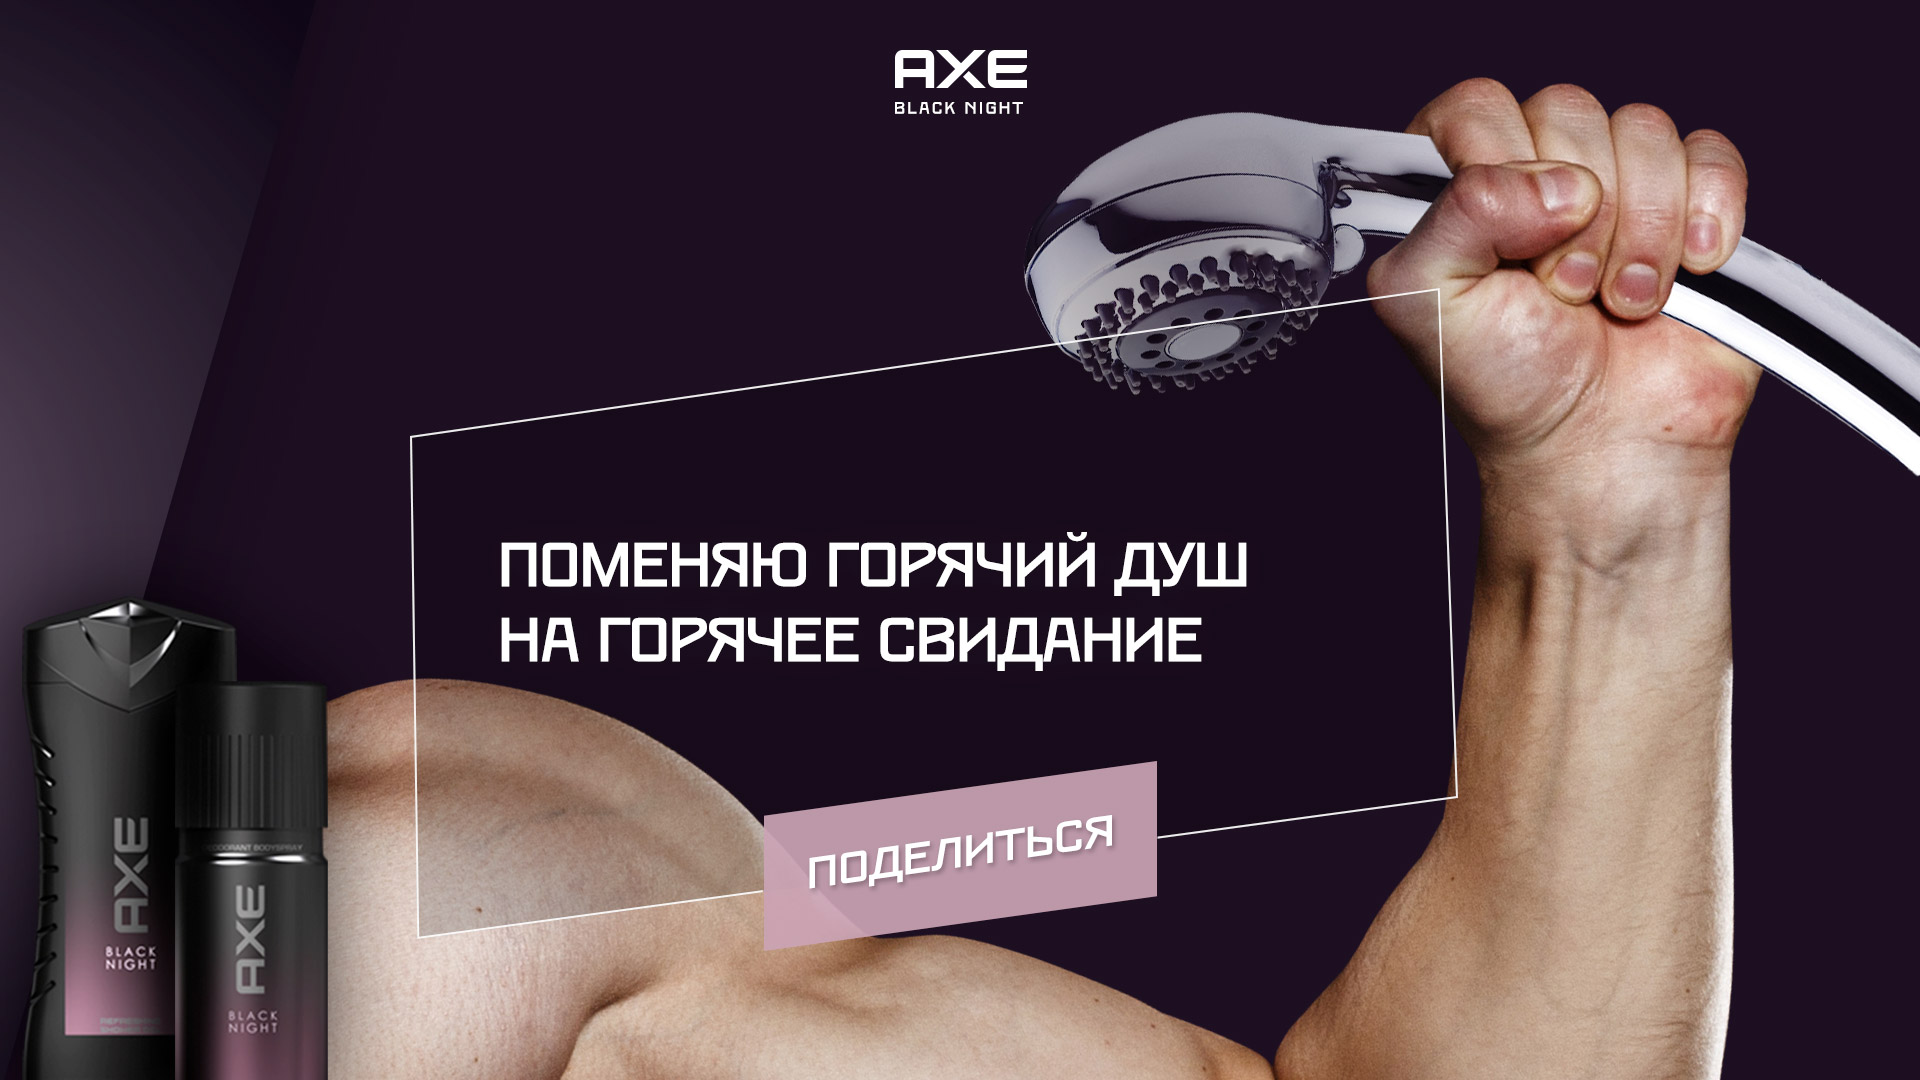
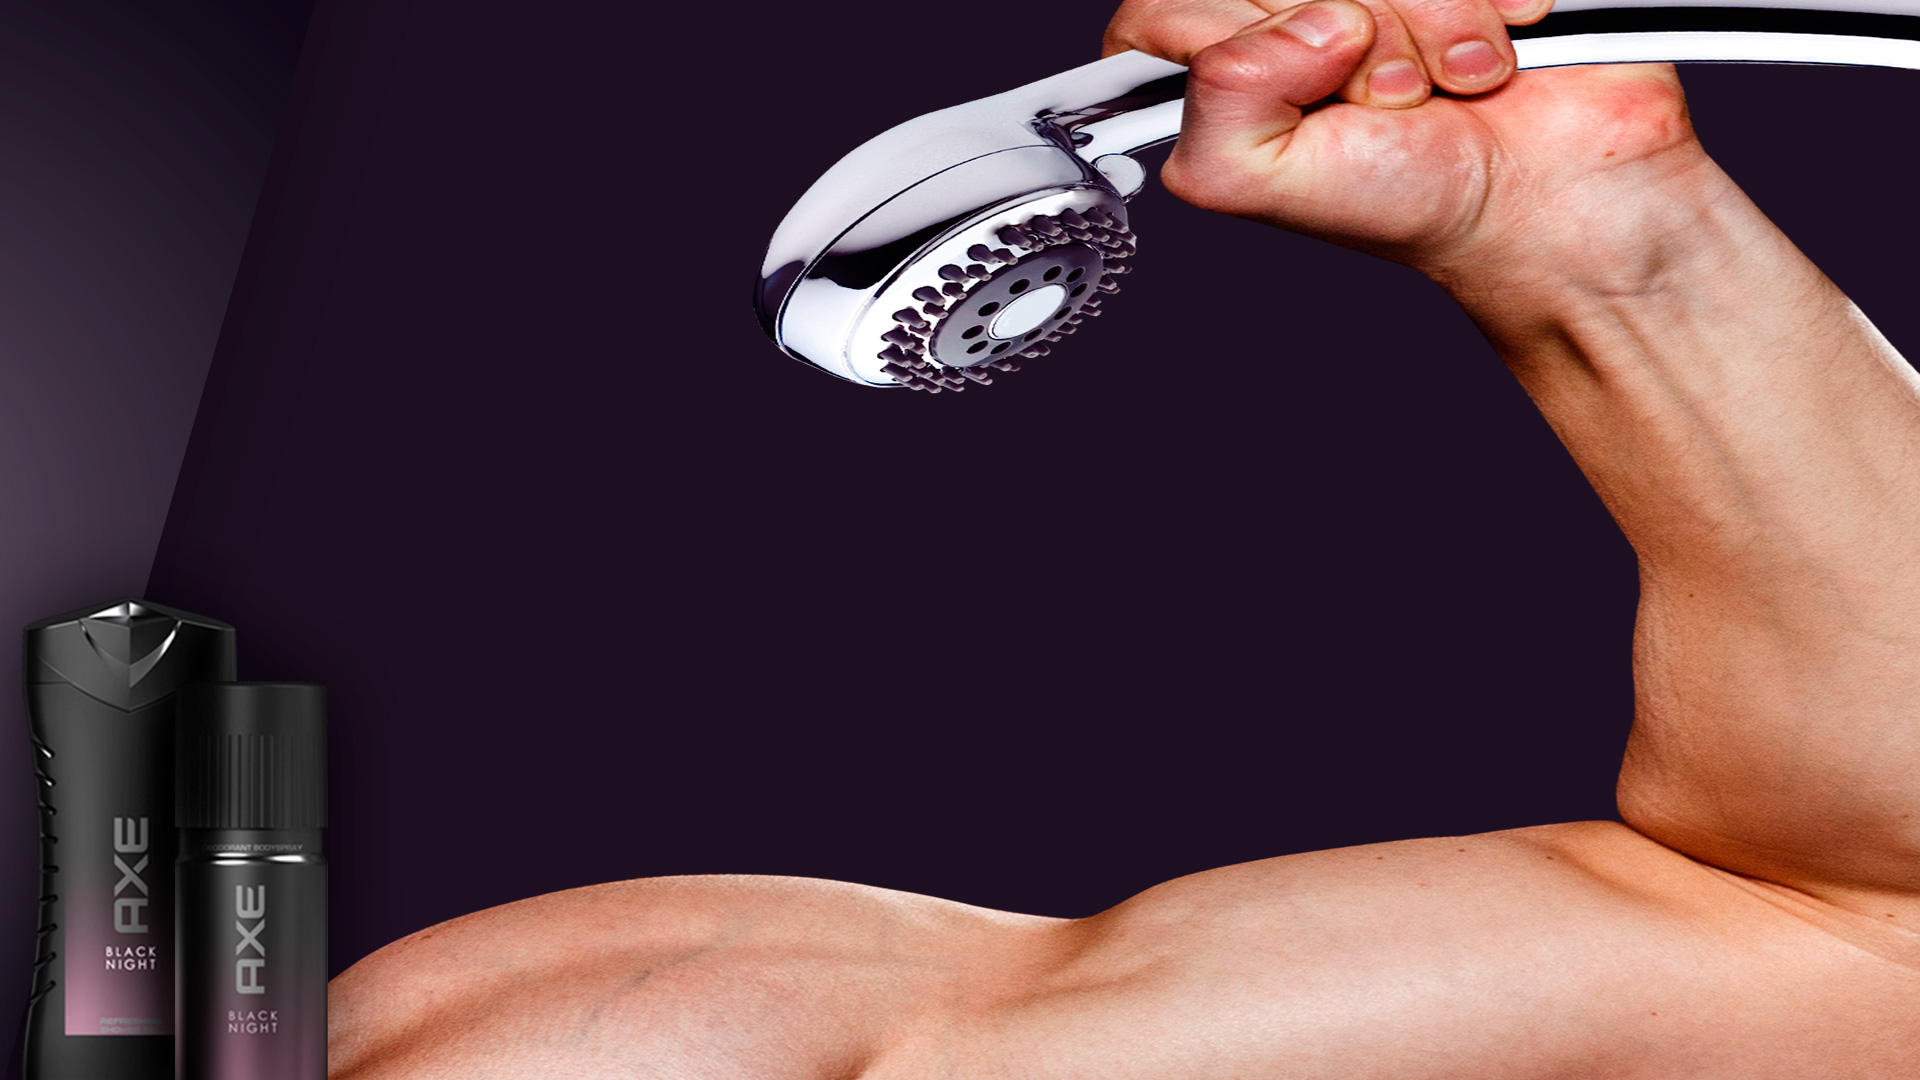
girl version finished

diff --git a/assets/style.css b/assets/style.css
@@ -132,8 +132,8 @@ label {
     left: 12px;
     top: 40px;
     z-index: 100;
-    width: 10vw;
-    height: 5vw;
+    width: 4em;
+    height: 2em;
     background-repeat: no-repeat;
     background-size: contain;
 }
@@ -256,14 +256,14 @@ label {
     text-align: center;
 }
 .share-post__text {
-    margin-bottom: 0.5vw;
-    font-size: 1.2vw;
+    margin-bottom: 0.5em;
+    font-size: 1.2em;
     color: #ffffff;
 }
 .share-post__link {
     display: inline-block;
-    width: 8vw;
-    height: 8vw;
+    width: 4em;
+    height: 4em;
     background-image: url(sharings.png);
     background-repeat: no-repeat;
     background-size: cover;
@@ -381,8 +381,8 @@ label {
 }
 
 .b_valign .share-post__link {
-    width: 4vw;
-    height: 4vw;
+    width: 4em;
+    height: 4em;
 }
 
 .b_valign-cont {
@@ -514,7 +514,7 @@ label {
     }
 }
 
-@media screen and (max-width: 736px) {
+@media screen and (max-width: 769px) {
     .button-set .button {
         margin: 0 2%;
     }
@@ -524,6 +524,35 @@ label {
         padding: 1.5em 1.5em .5em;
 
         font-size: 2.5em
+    }
+}
+
+@media screen and (max-width: 769px) and (orientation: portrait) {
+    .b_valign-cont {
+        padding-top: 4em;
+        vertical-align: top;
+    }
+
+    .heading {
+        line-height: 1.2em;
+    }
+
+    .heading br {
+        display: none;
+    }
+
+    .share-post__text {
+        font-size: 2em;
+    }
+
+    .b_valign .share-post__link {
+        width: 8em;
+        height: 8em;
+    }
+
+    .select-circle {
+        width: 4em;
+        height: 4em;
     }
 }
 
@@ -544,6 +573,12 @@ label {
         font-size: 10px;
     }
 }
+
+/*@media screen and (max-width: 520px) and (orientation: landscape) {
+    .button {
+        font-size: 2.5em;
+    }
+}*/
 
 @media screen and (max-width: 520px) and (max-height: 400px) {
     .top {
@@ -586,12 +621,18 @@ label {
 }
 .screen--for_m_water_share .screen__bg {
     background-image: url(man_water_share.jpg);
+    background-size: cover;
+    background-position: center;
 }
 .screen--for_m_partner .screen__bg {
     background-image: url(man_partner.jpg);
+    background-size: cover;
+    background-position: center;
 }
 .screen--for_m_share .screen__bg {
     background-image: url(man_partner_share.jpg);
+    background-size: cover;
+    background-position: center;
 }
 .screen--for_girl .screen__bg {
     background-image: url(girl_start.jpg);

diff --git a/index.php b/index.php
@@ -98,7 +98,7 @@
                     <div class="content">
                         <div class="b_valign">
                             <div class="b_valign-cont">
-                                <h2 class="heading">О чем ты мечтаешь<br>в душе?</h2>
+                                <h2 class="heading">О чем ты мечтаешь <br>в душе?</h2>
                                 <div class="button-set">
                                     <label for="for_m_water" class="button">О горячей<br>воде</label>
                                     <label for="for_m_partner" class="button">О горячей<br>девушке</label>
@@ -128,7 +128,7 @@
                     <div class="content">
                         <div class="b_valign">
                             <div class="b_valign-cont">
-                                <h2 class="heading is-bordered">Ищу девушку с теплом<br>в душе</h2>
+                                <h2 class="heading is-bordered">Ищу девушку с теплом <br>в душе</h2>
                                 <label for="for_m_water_share" class="button">Поделиться</label>
                             </div>
                         </div>
@@ -157,7 +157,7 @@
                         <div class="b_valign">
                             <div class="b_valign-cont">
                                 <h2 class="heading is-bordered">
-                                    Поделюсь горячей водой<br>
+                                    Поделюсь горячей водой <br>
                                     с горячей девушкой
                                 </h2>
                                 <label for="for_m_share" class="button">Поделиться</label>
@@ -178,7 +178,7 @@
                             <div class="b_valign-cont">
                                 <h2 class="heading is-bordered is-hashtagged">
                                     <div class="unrotate">
-                                        Поделюсь горячей водой<br>
+                                        Поделюсь горячей водой <br>
                                         с горячей девушкой
                                         <span class="hashtag">#СТЕПЛОМВДУШЕ</span>
                                     </div>
@@ -207,7 +207,7 @@
                             <div class="b_valign-cont">
                                 <h2 class="heading is-bordered is-hashtagged">
                                     <div class="unrotate">
-                                        Ищу девушку<br>
+                                        Ищу девушку <br>
                                         с теплом в душе
                                         <span class="hashtag">#СТЕПЛОМВДУШЕ</span>
                                     </div>
@@ -229,28 +229,46 @@
                 <div class="product"></div>
                 <div class="screen__bg">
                     <label for="for_man" class="select-gender select-gender--girl"></label>
-                    <label for="for_g_water" class="select-option select-option--water"></label>
-                    <label for="for_g_partner" class="select-option select-option--partner"></label>
+                    <div class="top">
+                        <div class="logo"></div>
+                        <div class="logo-sign">Поиск горячих людей с горячей водой</div>
+                    </div>
+                    <div class="content">
+                        <div class="b_valign">
+                            <div class="b_valign-cont">
+                                <h2 class="heading">О чем ты мечтаешь <br>в душе?</h2>
+                                <div class="button-set">
+                                    <label for="for_g_water" class="button">О горячей<br>воде</label>
+                                    <label for="for_g_partner" class="button">О горячем<br>парне</label>
+                                </div>
+                            </div>
+                        </div>
+                    </div>
                 </div>
             </div>
 
             <div class="screen screen--for_g_water for_water for_girl">
                 <div class="product"></div>
                 <div class="screen__bg">
-                    <label for="for_girl" class="select-circle select-circle--bottom"></label>
-                    <!--<label  class="select-back"></label>-->
-                    <div class="share-group">
-                        <div class="share-group__border"></div>
-                        <div class="share-group__text"></div>
-                        <label for="for_g_water_share" class="select-share"></label>
+                    <label for="for_girl" class="select-circle select-circle--top"></label>
+                    <div class="top">
+                        <div class="logo"></div>
+                        <!-- <div class="logo-sign is-secondary">
+                            <script>
+                                count = randomInteger(2, 9);
+                                word = declOfNum(count, ['девушка', 'девушки', 'девушек']);
+                                document.write(count + ' ' + word);
+                            </script>
+                            рядом с тобой<br> мечтают о&nbsp;серьезном теплом душе
+                        </div> -->
                     </div>
-                    <div class="screen__random">
-                        <script>
-                            count = randomInteger(2, 9);
-                            word = declOfNum(count, ['парень', 'парня', 'парней']);
-                            document.write(count + ' ' + word);
-                        </script>
-                        в этом вагоне мечтают<br> о&nbsp;серьезном теплом душе
+                    <div class="content">
+                        <div class="b_valign">
+                            <div class="b_valign-cont">
+                                <h2 class="heading is-bordered">Есть горячая вода? <br>Я скажу тебе «ДА»!</h2>
+                                <label for="for_g_water_share" class="button">Поделиться</label>
+                            </div>
+                        </div>
                     </div>
                 </div>
             </div>
@@ -260,19 +278,19 @@
                 <div class="screen__bg">
                     <label for="for_girl" class="select-circle select-circle--top"></label>
                     <!--<label  class="select-back"></label>-->
-                    <div class="share-group">
-                        <div class="share-group__border"></div>
-                        <div class="share-group__text"></div>
-                        <label for="for_g_share" class="select-share"></label>
+                    <div class="top">
+                        <div class="logo"></div>
                     </div>
-                    <div class="screen__random">
-                        У
-                        <script>
-                            count = randomInteger(2, 9);
-                            ending = declOfNum(count, ['', '', '']);
-                            document.write(count + ending);
-                        </script>
-                        парней в этом вагоне есть горячая вода, но нет планов на вечер
+                    <div class="content">
+                        <div class="b_valign">
+                            <div class="b_valign-cont">
+                                <h2 class="heading is-bordered">
+                                    Поменяю горячий душ <br>
+                                    на горячее свидание
+                                </h2>
+                                <label for="for_g_share" class="button">Поделиться</label>
+                            </div>
+                        </div>
                     </div>
                 </div>
             </div>
@@ -280,12 +298,28 @@
             <div class="screen screen--for_g_share for_share for_girl">
                 <div class="product"></div>
                 <div class="screen__bg">
-                    <div class="share-post">
-                        <div class="share-post__text">Поделись постом:</div>
-                        <a class="share-post__link" target="_blank" href="http://vkontakte.ru/share.php?url=http://nighthero.ru/showerdating?gs"></a>
-                        <a class="share-post__link" target="_blank" href="http://www.facebook.com/sharer/sharer.php?u=http://nighthero.ru/showerdating?gs"></a>
-                        <a class="share-post__link" target="_blank" href="http://www.odnoklassniki.ru/dk?st.cmd=addShare&st.s=1&st._surl=http://nighthero.ru/showerdating?gs"></a>
-                        <a class="share-post__link" target="_blank" href="http://twitter.com/share?u=http://nighthero.ru/showerdating?gs"></a>
+                    <div class="top">
+                        <div class="logo"></div>
+                    </div>
+                    <div class="content">
+                        <div class="b_valign">
+                            <div class="b_valign-cont">
+                                <h2 class="heading is-bordered is-hashtagged">
+                                    <div class="unrotate">
+                                        Поменяю горячий душ <br>
+                                        на горячее свидание
+                                        <span class="hashtag">#СТЕПЛОМВДУШЕ</span>
+                                    </div>
+                                </h2>
+                                <div class="share-post">
+                                    <div class="share-post__text">Поделись постом:</div>
+                                    <a class="share-post__link" target="_blank" href="http://vkontakte.ru/share.php?url=http://nighthero.ru/showerdating?gs"></a>
+                                    <a class="share-post__link" target="_blank" href="http://www.facebook.com/sharer/sharer.php?u=http://nighthero.ru/showerdating?gs"></a>
+                                    <a class="share-post__link" target="_blank" href="http://www.odnoklassniki.ru/dk?st.cmd=addShare&st.s=1&st._surl=http://nighthero.ru/showerdating?gs"></a>
+                                    <a class="share-post__link" target="_blank" href="http://twitter.com/share?u=http://nighthero.ru/showerdating?gs"></a>
+                                </div>
+                            </div>
+                        </div>
                     </div>
                 </div>
             </div>
@@ -293,12 +327,27 @@
             <div class="screen screen--for_g_water_share for_share for_girl">
                 <div class="product"></div>
                 <div class="screen__bg">
-                    <div class="share-post">
-                        <div class="share-post__text">Поделись постом:</div>
-                        <a class="share-post__link" target="_blank" href="http://vkontakte.ru/share.php?url=http://nighthero.ru/showerdating?gb"></a>
-                        <a class="share-post__link" target="_blank" href="http://www.facebook.com/sharer/sharer.php?u=http://nighthero.ru/showerdating?gb"></a>
-                        <a class="share-post__link" target="_blank" href="http://www.odnoklassniki.ru/dk?st.cmd=addShare&st.s=1&st._surl=http://nighthero.ru/showerdating?gb"></a>
-                        <a class="share-post__link" target="_blank" href="http://twitter.com/share?u=http://nighthero.ru/showerdating?gb"></a>
+                    <div class="top">
+                        <div class="logo"></div>
+                    </div>
+                    <div class="content">
+                        <div class="b_valign">
+                            <div class="b_valign-cont">
+                                <h2 class="heading is-bordered is-hashtagged">
+                                    <div class="unrotate">
+                                        Есть горячая вода? <br>Я скажу тебе «ДА»!
+                                        <span class="hashtag">#СТЕПЛОМВДУШЕ</span>
+                                    </div>
+                                </h2>
+                                <div class="share-post">
+                                    <div class="share-post__text">Поделись постом:</div>
+                                    <a class="share-post__link" target="_blank" href="http://vkontakte.ru/share.php?url=http://nighthero.ru/showerdating?gb"></a>
+                                    <a class="share-post__link" target="_blank" href="http://www.facebook.com/sharer/sharer.php?u=http://nighthero.ru/showerdating?gb"></a>
+                                    <a class="share-post__link" target="_blank" href="http://www.odnoklassniki.ru/dk?st.cmd=addShare&st.s=1&st._surl=http://nighthero.ru/showerdating?gb"></a>
+                                    <a class="share-post__link" target="_blank" href="http://twitter.com/share?u=http://nighthero.ru/showerdating?gb"></a>
+                                </div>
+                            </div>
+                        </div>
                     </div>
                 </div>
             </div>
